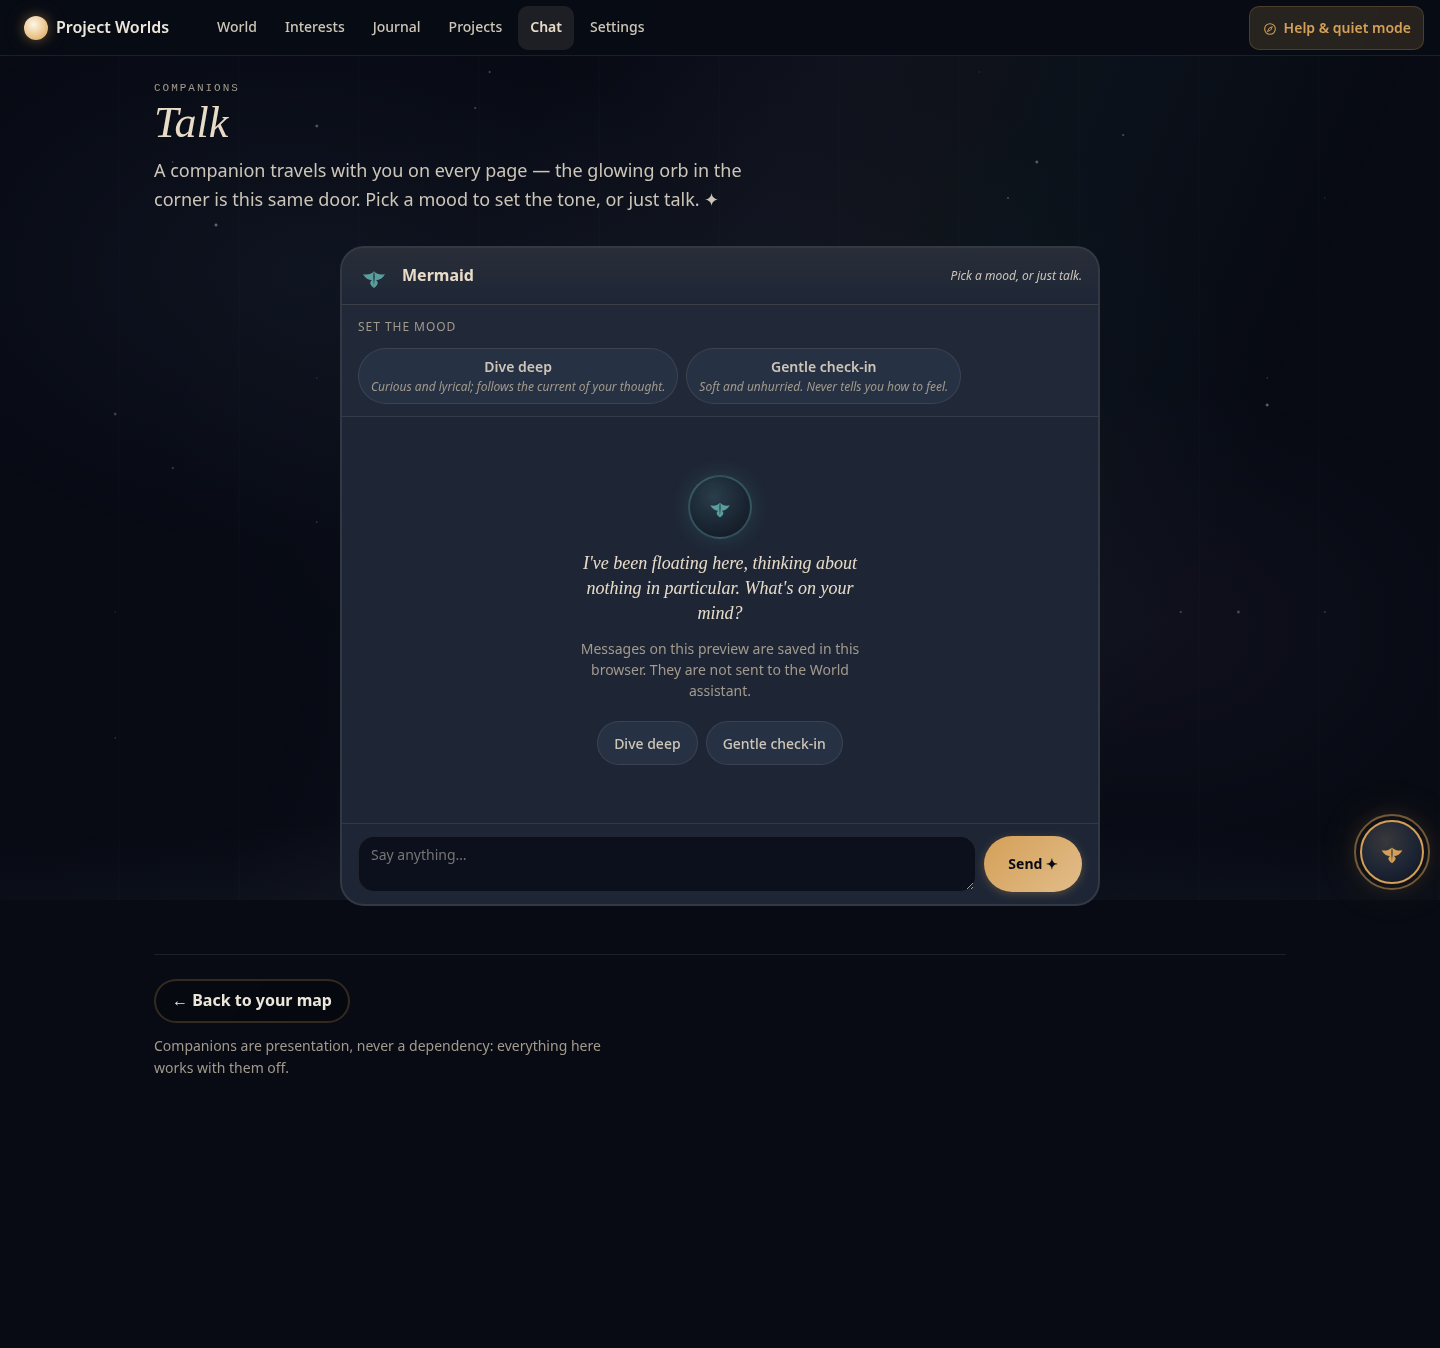
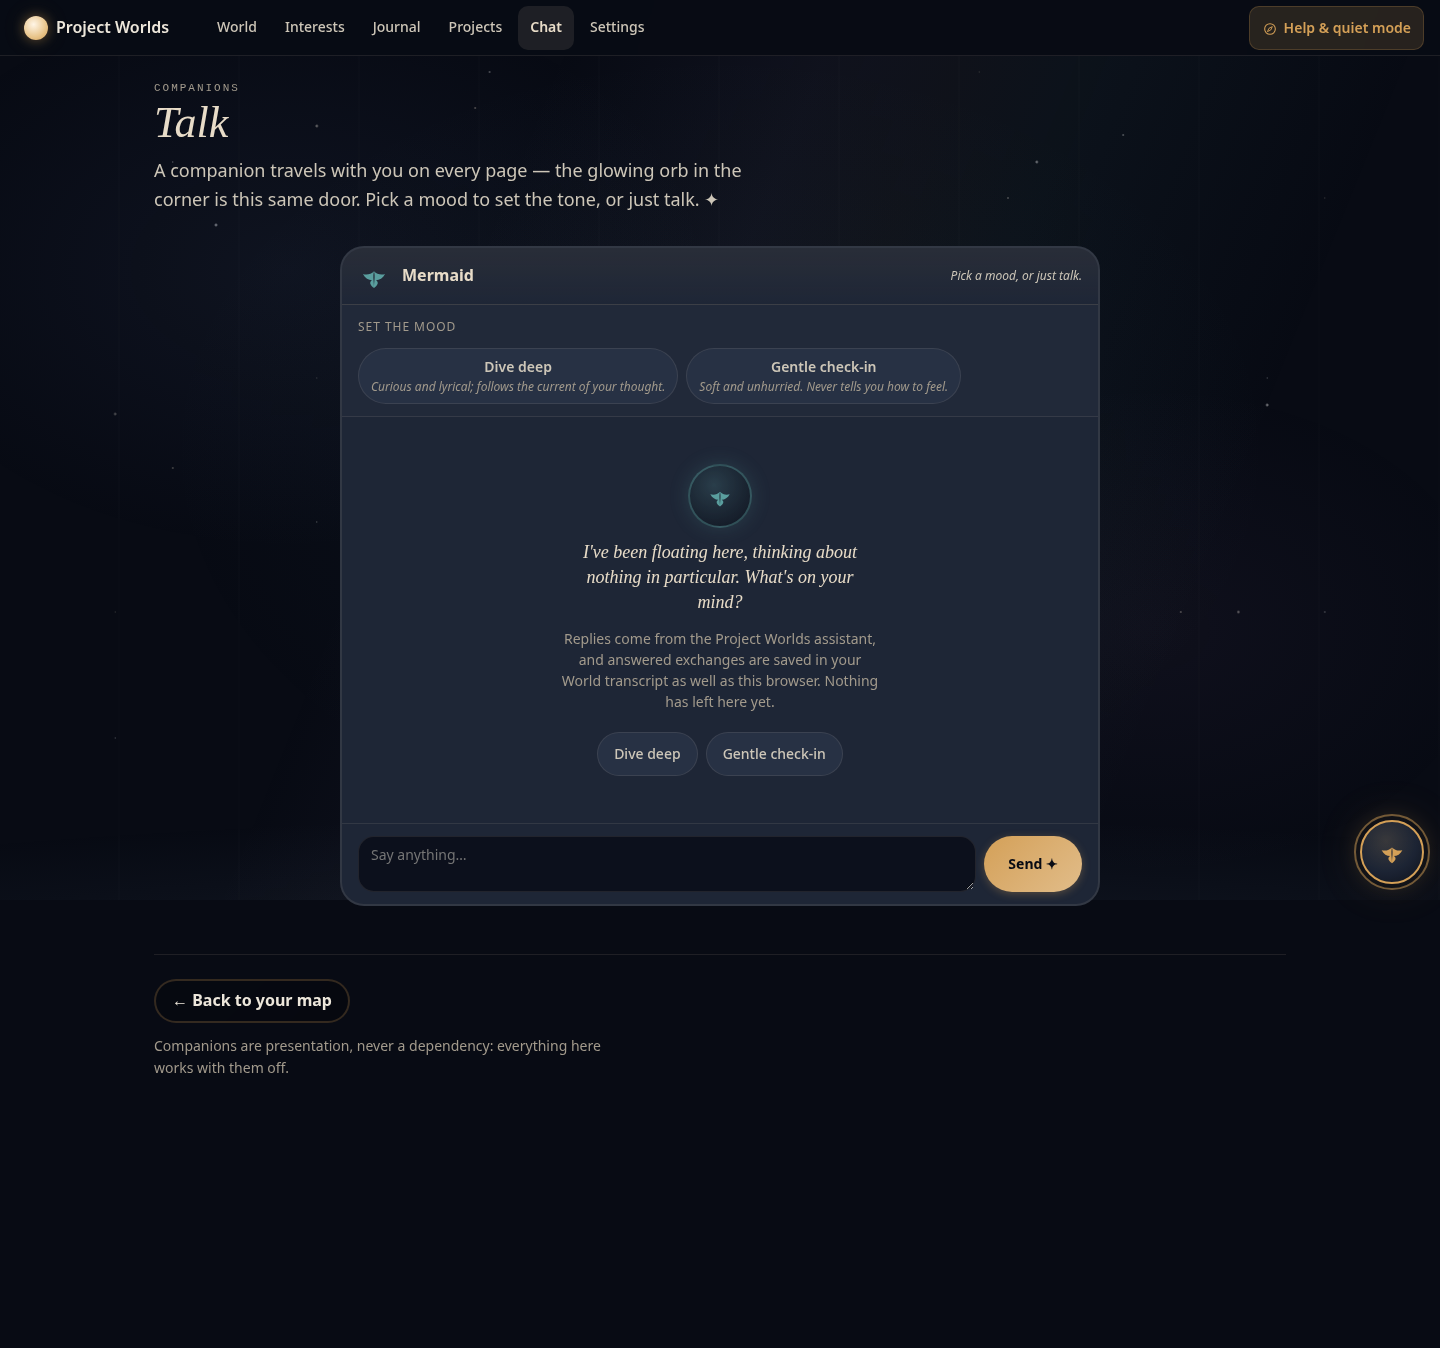
a11y/name + needs-you dedupe (LANG-053, UX-09)
- Companion orb accessible name is now 'Open World assistant' on both
  chrome sites: the trigger opens the real Project Worlds assistant,
  so the accessible name names the function (visible title keeps the
  companion personality). Verified by aria-name e2e gate.
- UX-09: under low demand the full Needs-you section (.needs-full) is
  hidden — the quiet block already carries the same verified truth, so
  the page shows ONE Needs-you panel. Quiet-variant copy no longer
  claims the full list is 'just below' while it is hidden; it points
  at 'Show me my world' to bring it back. e2e low-demand check extended.
- Regenerated screenshots for the chat page and settings prefs table
  (visible copy changes from this pass).

Changed region(s): [[0.4062, 0.3427, 0.5938, 0.5608]]

diff --git a/design/opendesign-exploration/station/station.css b/design/opendesign-exploration/station/station.css
@@ -1208,6 +1208,22 @@ details.pattern-ref .pattern-body { padding-top: var(--s3); }
   background:rgba(255,255,255,0.03); color:var(--text-faint);
   font-size:var(--fs-micro); border:1px dashed var(--border);
 }
+/* The assistant's real reply (wired to POST /api/chat) */
+.msg.ai {
+  align-self:flex-start;
+  background:rgba(255,255,255,0.05); color:var(--text);
+  border:1px solid var(--border);
+  white-space:pre-line;
+}
+.msg.ai .chat-findings {
+  margin-top:var(--s2); font-size:var(--fs-micro); color:var(--text-faint);
+}
+.msg.ai .chat-findings summary {
+  min-height:44px; display:flex; align-items:center; cursor:pointer;
+  color:var(--text-soft);
+}
+.msg.ai .findings-list { margin:var(--s2) 0 0 var(--s4); display:grid; gap:var(--s1, 4px); }
+.msg.ai .findings-list code { color:var(--text-soft); }
 .msg.empty {
   align-self:center; background:none; color:var(--text-faint);
   text-align:center; padding:var(--s5);
@@ -1375,6 +1391,10 @@ details.tech .tech-body {
 [data-demand="low"] body { font-size: calc(var(--fs-body) + 1px); }
 .quiet-only { display:none; }
 [data-demand="low"] .quiet-only { display:block; }
+/* UX-09: low demand already renders the quiet Needs-you block; the
+   FULL Needs-you section below it is the duplicate — hide it, so the
+   page carries one Needs-you panel and one truth. */
+[data-demand="low"] .needs-full { display:none; }
 
 /* ═══ LOW-MOTION DRILL ZOOM ═══
    Feedback for an action YOU took: ~180ms, tiny scale, no travel.

diff --git a/design/opendesign-exploration/station/station.js b/design/opendesign-exploration/station/station.js
@@ -72,8 +72,7 @@
     if (orb) {
       var use = orb.querySelector('use');
       if (use) { use.setAttribute('href', 'chars.svg#char-' + value('companion')); }
-      orb.setAttribute('aria-label', 'Talk to ' + (COMPANIONS[value('companion')] || {}).label +
-                       ', your companion — press to open chat');
+      orb.setAttribute('aria-label', 'Open World assistant');
     }
 
     // companions off → drop any ambient egg currently showing
@@ -96,7 +95,7 @@
     companion.className = 'companion';
     companion.id = 'companion-orb';
     companion.href = 'chat.html';   /* upgraded to a dock toggle when chat.js loads */
-    companion.setAttribute('aria-label', 'Talk to your companion — press to open chat');
+    companion.setAttribute('aria-label', 'Open World assistant');
     companion.title = 'Talk to your companion';
     companion.innerHTML =
       '<span class="c-sil" aria-hidden="true"><svg><use href="chars.svg#char-' + who + '"/></svg></span>' +

diff --git a/frontend/e2e/station-honest-states.spec.ts b/frontend/e2e/station-honest-states.spec.ts
@@ -100,9 +100,11 @@ test.describe("quiet AND verified (no data ≠ unknown ≠ fake)", () => {
     await expect(quiet.locator(".rd-chip")).toHaveAttribute("data-status", "healthy");
     await expect(quiet).toContainText("Nothing needs you right now");
     await expect(quiet).toContainText("verified, not assumed");
-    // asking less hides nothing operational: the way back is right there
+    // asking less hides nothing operational: the way back is right there,
+    // and the FULL needs-you section is the duplicate — hidden (UX-09)
     await expect(page.locator(".quiet-only .beam")).toBeVisible();
     await expect(page.locator("#h-needs")).toBeAttached();
+    await expect(page.locator("section.needs-full")).toBeHidden();
   });
 });
 

diff --git a/design/opendesign-exploration/station/index.html b/design/opendesign-exploration/station/index.html
@@ -86,8 +86,10 @@
     </button>
   </section>
 
-  <!-- ══ NEEDS YOU — the only thing that may interrupt ══ -->
-  <section class="block" aria-labelledby="h-needs">
+  <!-- ══ NEEDS YOU — the only thing that may interrupt ══
+       .needs-full: hidden under low-demand, where the quiet block
+       above already carries the same truth (UX-09). -->
+  <section class="block needs-full" aria-labelledby="h-needs">
     <h2 class="sec-label" id="h-needs">Needs you</h2>
     <!-- REAL DATA: same two sources as above, one shared fetch. The
          heading above is the panel's heading (data-rd-labelledby), so the
